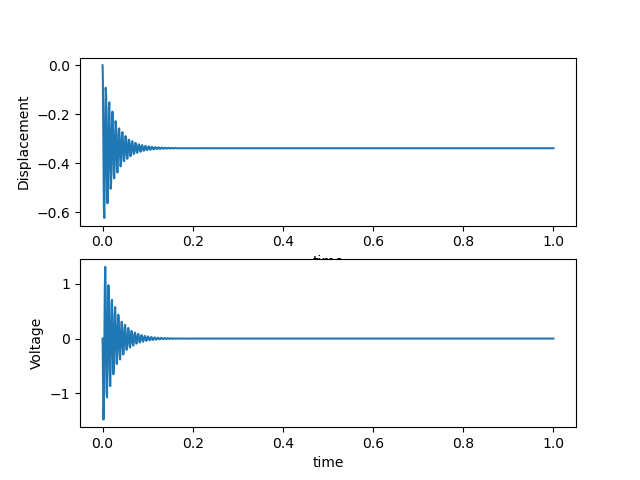
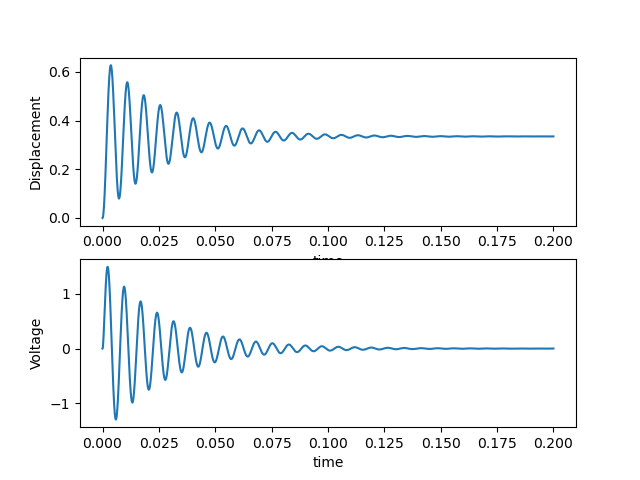
Optimized piezo cantilever voltage output

diff --git a/cantilever_piezo_voltage.py b/cantilever_piezo_voltage.py
@@ -2,93 +2,174 @@
 # The model is cantilever with tip mass and a piezoelectric layer
 import numpy as np
 from scipy.optimize import root
+import math
+from scipy.integrate import solve_ivp
 import matplotlib.pyplot as plt
+import time
 
-# 1 # cantilever film dimensions
-M1 = 11 * 1e-6                  ## tip mass in kg (referring to raindrop)
-J1 = M1 * ( 5e-3 )**2           # tip mass moment of inertia
-Ys = 0.5 * 1e9                  # substrate young's modulus
-rho_s = 1390                    # substarte density
-Yp = 2.45 * 1e9                 # piezo young's moudulus
-rho_p = 1780                    # piezo density
-h1s = 0.5 * 1e-3                ## substrate thickness(m)
-h1p = 0.028 * 1e-3              # piezo thickness(m)
-L1 = 20 * 1e-3                  ## substrate length(m)
-Lp1 = 0 * L1                    # 0 means the piezo cover from the fixed end
-Lp2 = 1 * L1                    # piezo length
-b1s = 13 * 1e-3                 ## substrate width
-b1p = b1s                       # piezo width
-b1pp = b1p                      # electrode width
+class piezo_film():
+    def __init__(self):
+        # 1 # cantilever film dimensions
+        self.M1 = 11 * 1e-6                 ## tip mass in kg (referring to raindrop)
+        self.J1 = self.M1 * ( 5e-3 )**2     # tip mass moment of inertia
+        self.Ys = 0.5 * 1e9                 # substrate young's modulus
+        self.rho_s = 1390                   # substarte density
+        self.Yp = 2.45 * 1e9                # piezo young's moudulus
+        self.rho_p = 1780                   # piezo density
+        self.h1s = 0.5 * 1e-3               ## substrate thickness(m)
+        self.h1p = 0.028 * 1e-3             # piezo thickness(m)
+        self.L1 = 20 * 1e-3                 ## substrate length(m)
+        self.Lp1 = 0 * self.L1              # 0 means the piezo cover from the fixed end
+        self.Lp2 = 1 * self.L1              # piezo length
+        self.b1s = 13 * 1e-3           ## substrate width
+        self.b1p = self.b1s       # piezo width
+        self.b1pp = self.b1p           # electrode width
 
-# 2 # piezoelectric parameters
-d31 = -190 * 1e-12              # piezoelectric constant(m/V)
-vtheta = 1e-7                   ## piezoelectric coupling coefficient, vtheta = Yp*d31*b1pp*h1pc
-epsilon = 15.93 * 1e-9          # absolute permittivity 3500*8.854*1e-12 # F/m
-Cp = 0.5 * 1e-9                 ## Capaticance of the piezo layer
+        # 2 # piezoelectric parameters
+        self.d31 = -190 * 1e-12             # piezoelectric constant(m/V)
+        self.vtheta = 0.85*1e-7             ## piezoelectric coupling coefficient, vtheta = Yp*d31*b1pp*h1pc
+        self.epsilon = 15.93 * 1e-9         # absolute permittivity 3500*8.854*1e-12 # F/m
+        self.Cp = 0.5 * 1e-9                ## Capaticance of the piezo layer
 
-# 3 # cantilever mechanical parameters
-m1 = rho_s*b1s*h1s + rho_p*b1p*h1p                             # unit mass of the cantilever
-n = Ys * b1s / ( Yp * b1p )                                         # stiffness ratio of substrate to piezo modulus
-h1pa = ( h1p**2 + 2*n*h1p*h1s + n * h1s**2 ) / 2 / ( h1p + n*h1s )  # piezo layer surface distance to neutral axis
-h1sa = ( h1p**2 + 2*h1p*h1s + n * h1s**2 ) / 2 / ( h1p + n*h1s )    # substrate layer surface distance to neutral axis
-h1pc = n * h1s * ( h1p+h1s ) / 2 / ( h1p + n*h1s )                  # 
-h1a = -h1sa                                                         # distance from neutral axis to bottom of substrate
-h1b = h1pa - h1p                                                    # distance from neutral axis to top of substrate
-h1c = h1pa                                                          # distance from neutral axis to top of piezo layer
-EI1 = b1s/3*Ys*(h1b**3-h1a**3)+b1p/3*Yp*(h1c**3-h1b**3)                 # bending stiffness of the cantilever
-
-# 4 # find natural frequency by det(A) = 0
-    # where A x C = 0. C is the vector of the 4 unknowns (C1, C2, C3, C4)
-    # C is coefficient of eigenfunction ( W(x) )of deflection function ( w(x, t) )
-    # A is the matrix of the coefficients of the unknowns
-    # Refer to: Analysis and Verification of V-shaped Piezoelectric Energy Harvesters with Angle and Tip Mass
-
-#
-def det_A_v1(alpha: np.float64) -> float:
-    # natural frequency omega_i = alpha_i * sqrt( EI1 / m1 )
-    # Here we only consider the first natural frequencies
-    # formula (3.1.47)
-    cos = np.cos(alpha*L1)
-    sin = np.sin(alpha*L1)
-    cosh = np.cosh(alpha*L1)
-    sinh = np.sinh(alpha*L1)
-    det_value = 1 + cos*cosh + \
-                (M1*alpha/m1)*(cos*sinh-sin*cosh) - \
-                (J1*alpha**3/m1)*(cosh*sin+sinh*cos) - \
-                (M1*J1*alpha**4/m1**2)*(cos*cosh-1)
-            
-    return det_value
-
-def det_A_v2(alpha: np.float64) -> float:
-    # natural frequency omega_i = alpha_i * sqrt( EI1 / m1 )
-    # Here we only consider the first natural frequencies
-    # formula (3.1.47)
-    cos = np.cos(alpha*L1)
-    sin = np.sin(alpha*L1)
-    cosh = np.cosh(alpha*L1)
-    sinh = np.sinh(alpha*L1)
-    det_value = 1 + cos*cosh + \
-                (M1*alpha/m1)*(cos*sinh-sin*cosh) + \
-                (J1*alpha**3/m1)*(cosh*sin+sinh*cos) + \
-                (M1*J1*alpha**4/m1**2)*(cos*cosh-1)
-            
-    return det_value
-
-def plot_functions():
-    alpha_values = np.linspace(0, 100, 1000)
-    det_A_v1_values = [det_A_v1(alpha) for alpha in alpha_values]
-    det_A_v2_values = [det_A_v2(alpha) for alpha in alpha_values]
-
-    plt.plot(alpha_values, det_A_v1_values, label="det_A_v1")
-    plt.plot(alpha_values, det_A_v2_values, label="det_A_v2")
-    plt.xlabel("Alpha")
-    plt.ylabel("Function Value")
-    plt.title("det_A_v1 and det_A_v2 Functions")
-    plt.legend()
-    plt.grid()
-    plt.savefig("det_A_v1_and_det_A_v2_functions.png")
-
-plot_functions()
+        # 4 # external circuit parameters
+        self.R = 1 * 1e6                    ## external circuit load resistance
+        self.zeta = 0.043                   ## damping ratio (Including internal damping and air damping)
+        
+        self.force = lambda t: 0.08*24
+        self.time_end = 0.2
+        self.time_step = 1000
+        
+        self.cal_properties()
 
 
+    def cal_properties(self):
+        # 3 # cantilever mechanical parameters
+        self.m1 = self.rho_s*self.b1s*self.h1s + self.rho_p*self.b1p*self.h1p                               # unit mass of the cantilever
+        n = self.Ys * self.b1s / ( self.Yp * self.b1p )                                                     # stiffness ratio of substrate to piezo modulus
+        h1pa = ( self.h1p**2 + 2*n*self.h1p*self.h1s + n * self.h1s**2 ) / 2 / ( self.h1p + n*self.h1s )    # piezo layer surface distance to neutral axis
+        h1sa = ( self.h1p**2 + 2*self.h1p*self.h1s + n * self.h1s**2 ) / 2 / ( self.h1p + n*self.h1s )      # substrate layer surface distance to neutral axis
+        h1pc = n * self.h1s * ( self.h1p+self.h1s ) / 2 / ( self.h1p + n*self.h1s )                  # 
+        h1a = -h1sa                                                                                         # distance from neutral axis to bottom of substrate
+        h1b = h1pa - self.h1p                                                                               # distance from neutral axis to top of substrate
+        h1c = h1pa                                                                                          # distance from neutral axis to top of piezo layer
+        self.EI1 = self.b1s/3*self.Ys*(h1b**3-h1a**3)+self.b1p/3*self.Yp*(h1c**3-h1b**3)                         # bending stiffness of the cantilever
+        self.get_A1()
+        
+    # 5 # find natural frequency by det(A) = 0
+        # where A x C = 0. C is the vector of the 4 unknowns (C1, C2, C3, C4)
+        # C is coefficient of eigenfunction ( W(x) )of deflection function ( w(x, t) )
+        # A is the matrix of the coefficients of the unknowns
+        # Refer to: Analysis and Verification of V-shaped Piezoelectric Energy Harvesters with Angle and Tip Mass
+    def det_A(self, alpha: np.float64) -> float:
+        # natural frequency omega_i = alpha_i * sqrt( EI1 / m1 )
+        # Here we only consider the first natural frequencies
+        # Refer to: Analysis and Verification of V-shaped Piezoelectric Energy Harvesters with Angle and Tip Mass
+        # formula (3.1.47) or 
+        # Piezoelectric Energy Harvesting by Alper Erturk Appendix C formula (C.18)
+        cos = np.cos(alpha*self.L1)
+        sin = np.sin(alpha*self.L1)
+        cosh = np.cosh(alpha*self.L1)
+        sinh = np.sinh(alpha*self.L1)
+        det_value = (1 + cos*cosh
+                    +(self.M1*alpha/self.m1)*(cos*sinh-sin*cosh)
+                    -(self.J1*alpha**3/self.m1)*(cosh*sin+sinh*cos)
+                    -(self.M1*self.J1*alpha**4/self.m1**2)*(cos*cosh-1))
+        return det_value
 
+    # 6 # find the mode shape coefficient A1
+    def get_A1(self):
+        self.alpha = root(self.det_A, 0).x[0]      # Natural frequency of the cantilever omega = alpha^2*sqrt(EI1/m1)
+        cos_L = np.cos(self.alpha*self.L1)
+        sin_L = np.sin(self.alpha*self.L1)
+        cosh_L = np.cosh(self.alpha*self.L1)
+        sinh_L = np.sinh(self.alpha*self.L1)
+        cos_2L = np.cos(2*self.alpha*self.L1) 
+        sin_2L = np.sin(2*self.alpha*self.L1)
+        cosh_2L = np.cosh(2*self.alpha*self.L1)
+        sinh_2L = np.sinh(2*self.alpha*self.L1)
+
+        self.sigma = (sin_L - sinh_L + (self.alpha*self.M1/self.m1)*(cos_L - cosh_L))/\
+                (cos_L + cosh_L - (self.alpha*self.M1/self.m1)*(sin_L - sinh_L))       # Piezoelectric Energy Harvesting by Alper Erturk Appendix C formula (C.20)
+        self.A1 = math.sqrt((4*self.alpha)/((-self.sigma**2*sin_2L
+                            +self.sigma**2*sinh_2L
+                            -4*self.sigma**2*cos_L*sinh_L
+                            +4*(self.sigma**2+1)*sin_L*cosh_L
+                            -2*self.sigma*cos_2L
+                            +2*self.sigma*cosh_2L
+                            +8*self.sigma*sin_L*sinh_L
+                            +4*self.alpha*self.L1
+                            +sin_2L
+                            +sinh_2L
+                            +4*cos_L*sinh_L
+                            )*self.m1))
+        return self.A1
+
+    # 7 # find the output voltage by solving PDE
+
+    def phi(self, x):
+        return self.A1*(np.cos(self.alpha*x)
+                   -np.cosh(self.alpha*x)
+                   +self.sigma*np.sin(self.alpha*x)
+                   -self.sigma*np.sinh(self.alpha*x))
+
+    def d_phi(self, x):
+        return self.A1*self.alpha*(-np.sin(self.alpha*x)
+                                   -np.sinh(self.alpha*x)
+                                   +self.sigma*np.cos(self.alpha*x) 
+                                   -self.sigma*np.cosh(self.alpha*x))
+
+    def cantilever_actuator_eq_solver(self, t, in_, para ):
+        [ Cp, R, vphi, zeta, omega ] = para
+        eta1 = in_[ 0 ]
+        eta1dot = in_[ 1 ]
+        v2 = in_[ 2 ]
+        eta1ddot = -2 * zeta * omega * eta1dot - omega**2 * eta1 - vphi*v2 - self.force(t)
+        v2dot = -1 / ( Cp*R ) * v2 + vphi/Cp*eta1dot
+
+        return [ eta1dot, eta1ddot, v2dot ]
+
+    def voltage(self):
+        vphi = self.vtheta*(self.d_phi(self.Lp2) 
+                            - self.d_phi(self.Lp1))
+        para = [ self.Cp, self.R, vphi, self.zeta, self.alpha**2*math.sqrt(self.EI1/self.m1) ]
+        return solve_ivp( self.cantilever_actuator_eq_solver, 
+                         [ 0, self.time_end ], 
+                         [ 0, 0, 0 ], 
+                         args=[ para ], 
+                         t_eval=np.linspace( 0, self.time_end, self.time_step ) )
+    
+    def time_span(self, time_span: float, step: float=1000):
+        self.time_end = time_span
+        self.time_step = step
+    
+    def tip_mass(self, mass: float):
+        self.M1 = mass
+        
+    def set_force(self, force_func):
+        self.force = force_func
+        
+    def total_damping(self, damping: float):
+        self.zeta = damping
+        
+    def load_resistance(self, resistance: float):
+        self.R = resistance
+    
+    def piezo_coupling(self, coupling: float):
+        self.vtheta = coupling
+        
+model = piezo_film()
+#model.tip_mass(11 * 1e-6)
+#model.set_force(lambda t: 0.08*24)     # Modify the force function to have different voltage output
+model.time_span(0.2, 10000)
+r = model.voltage()
+
+print( r.y[ 0 ] )
+print( r.y[ 2 ] )
+figure, ax = plt.subplots( 2, 1 )
+ax[ 0 ].plot( r.t, r.y[ 0 ] * model.phi(model.L1) * 1e3 )
+ax[ 0 ].set_ylabel( 'Displacement' )
+ax[ 0 ].set_xlabel( 'time' )
+ax[ 1 ].plot( r.t, r.y[ 2 ] )
+ax[ 1 ].set_ylabel( 'Voltage' )
+ax[ 1 ].set_xlabel( 'time' )
+plt.savefig( 'Cantilever_mass_fcn_python.png' )

diff --git a/test.py b/test.py
@@ -5,6 +5,7 @@ from sympy import sin, sinh, cos, cosh
 from math import pi, ceil, floor
 from scipy.optimize import root, fmin
 from scipy.integrate import solve_ivp
+import time
 
 ## Unit: kg, m, s
 
@@ -39,7 +40,6 @@ zeta = 0.043                  ####### damping ratio
 mode_find = 1                ## how many modes to be found
 
 m1 = rho_s*b1s*h1s + rho_p*b1p*h1p
-print(m1)
 
 n = Ys * b1s / ( Yp*b1p )
 
@@ -104,7 +104,7 @@ AA = sp.Matrix( AA ).det()
 
 Cantilever_mass_det = lambda x: float(AA.subs( omega, x[0] ))
 
-guess = 2 * 2 * pi * 10
+guess = 88.54445401441941   ##2 * 2 * pi * 10
 incre = 1.1
 omega_a = np.zeros( mode_find )        ###################!!!!!!!!!!!!!改動，原為高度為一的二維陣列，改為一維
 options = { 'maxiter': 1000, 'xtol': 1e-14, 'ftol': 1e-14 }
@@ -150,6 +150,7 @@ for mode in range( mode_find ):
     CC = -AA[ 1:4, 0 ]
 
     KK = np.dot( np.linalg.inv( BB ), CC ) * A1
+    print(KK)
     B1 = KK[ 0 ]
     C1 = KK[ 1 ]
     D1 = KK[ 2 ]
@@ -158,7 +159,11 @@ for mode in range( mode_find ):
     phi1_L1 = phi1.subs( x1, L1 )
     d_phi1 = sp.diff( phi1, x1 )
 
-    mx = m1 * sp.integrate( phi1 * phi1, ( x1, 0, L1 ) ) + M1*phi1_L1*phi1_L1
+    print(time.time())
+    mx = m1 * sp.integrate( phi1 * phi1, ( x1, 0, L1 ) ) + M1*phi1_L1*phi1_L1 + d_phi1.subs( x1, L1 )**2*J1
+    print(time.time())
+    print(phi1)
+    print(mx)
 
     A1 = fmin( lambda x: abs( mx.subs( A1, x[0] ) - 1 ), x0=2 )
     A1_r[ mode ] = A1
@@ -166,27 +171,9 @@ for mode in range( mode_find ):
     B1_r[ mode ] = KK[ 0 ]
     C1_r[ mode ] = KK[ 1 ]
     D1_r[ mode ] = KK[ 2 ]
+    print(A1_r[0], B1_r[0], C1_r[0], D1_r[0])
 
 for mode in range( mode_find ):
-    omega = omega_a[ mode ]
-    alpha = alpha_a[ mode ]
-
-    A1 = A1_r[ mode ]
-    B1 = B1_r[ mode ]
-    C1 = C1_r[ mode ]
-    D1 = D1_r[ mode ]
-
-    x11 = np.arange( 0, L1, 0.001 )
-
-    x = sp.symbols( 'x' )
-    phi_1 = get_phi( x, alpha, A1, B1, C1, D1 )
-    d_phi_1 = sp.diff( phi_1, x )
-    dd_phi_1 = sp.diff( d_phi_1, x )
-
-    phi_1 = [ phi_1.subs( x, i ) for i in x11 ]
-    d_phi_1 = [ d_phi_1.subs( x, i ) for i in x11 ]
-    dd_phi_1 = [ dd_phi_1.subs( x, i ) for i in x11 ]
-
     acc = acc_g * 9.81
     for dir in range( 1 ):
         if dir == 0:
@@ -220,26 +207,30 @@ for mode in range( mode_find ):
         B1 = B1_r[ mode ]
         C1 = C1_r[ mode ]
         D1 = D1_r[ mode ]
-
+        print(A1, B1, C1, D1)
         x1 = sp.symbols( 'x' )
         phi1 = get_phi( x1, alpha, A1, B1, C1, D1 )
         phi1_L1 = phi1.subs( x1, L1 )
         d_phi1 = sp.diff( phi1, x1 )
+        print(d_phi1)
         d_phi1_Lp1 = d_phi1.subs( x1, Lp1 )
         d_phi1_Lp2 = d_phi1.subs( x1, Lp2 )
-        dd_phi1 = sp.diff( phi1, x1 )
-        dd_phi1_Lp1 = dd_phi1.subs( x1, Lp1 )
-        dddd_phi1 = sp.diff( sp.diff( dd_phi1, x1 ), x1 )
+        #dd_phi1 = sp.diff( phi1, x1 )
+        #dd_phi1_Lp1 = dd_phi1.subs( x1, Lp1 )
+        #dddd_phi1 = sp.diff( sp.diff( dd_phi1, x1 ), x1 )
 
-        mx_i[ mode ] = m1 * sp.integrate( phi1**2, ( x1, 0, L1 ) ) + M1*phi1_L1*phi1_L1
-        kx_i[ mode ] = EI1 * sp.integrate( dd_phi1**2, ( x1, 0, L1 ) )
-        kx_i_2[ mode ] = EI1 * sp.integrate( dddd_phi1 * phi1, ( x1, 0, L1 ) )
-        vphi[ mode ] = vtheta * ( d_phi1_Lp2-d_phi1_Lp1 )
-        Nr[ mode ] = m1 * sp.integrate( phi1, ( x1, 0, L1 ) ) + M1*phi1_L1
+        #mx_i[ mode ] = m1 * sp.integrate( phi1**2, ( x1, 0, L1 ) ) + M1*phi1_L1*phi1_L1
+        #kx_i[ mode ] = EI1 * sp.integrate( dd_phi1**2, ( x1, 0, L1 ) )
+        #kx_i_2[ mode ] = EI1 * sp.integrate( dddd_phi1 * phi1, ( x1, 0, L1 ) )
+        print(d_phi1_Lp1, d_phi1_Lp2)
+        vphi[ mode ] = vtheta * ( d_phi1_Lp2-d_phi1_Lp1 )       # vtheta is piezoelectronic coupling factor the chi_i in (3.1.51)
+                                                                # vtheta is piezoelectronic coupling factor the chi_i in (3.1.51)
+        #Nr[ mode ] = m1 * sp.integrate( phi1, ( x1, 0, L1 ) ) + M1*phi1_L1
 
         para = [ Cp, R, vphi[ mode ], zeta, omega, Nr[ mode ], acc, rate, freq_s_hz ]
 
-        r = solve_ivp( Cantilever_mass_fcn, [ 0, 1 ], y0=[ 0, 0, 0 ], args=[ para ], max_step=step )
+        print(para)
+        r = solve_ivp( Cantilever_mass_fcn, [ 0, 0.2 ], y0=[ 0, 0, 0 ], args=[ para ], t_eval=np.linspace( 0, 0.2, 1000 ))
 
         print( r.y[ 0 ] )
         print( r.y[ 2 ] )
@@ -250,4 +241,4 @@ for mode in range( mode_find ):
         ax[ 1 ].plot( r.t, r.y[ 2 ] )
         ax[ 1 ].set_ylabel( 'Voltage' )
         ax[ 1 ].set_xlabel( 'time' )
-        plt.savefig( 'Cantilever_mass_fcn.png' )
+        plt.savefig( 'Cantilever_mass_fcn_matlab.png' )
